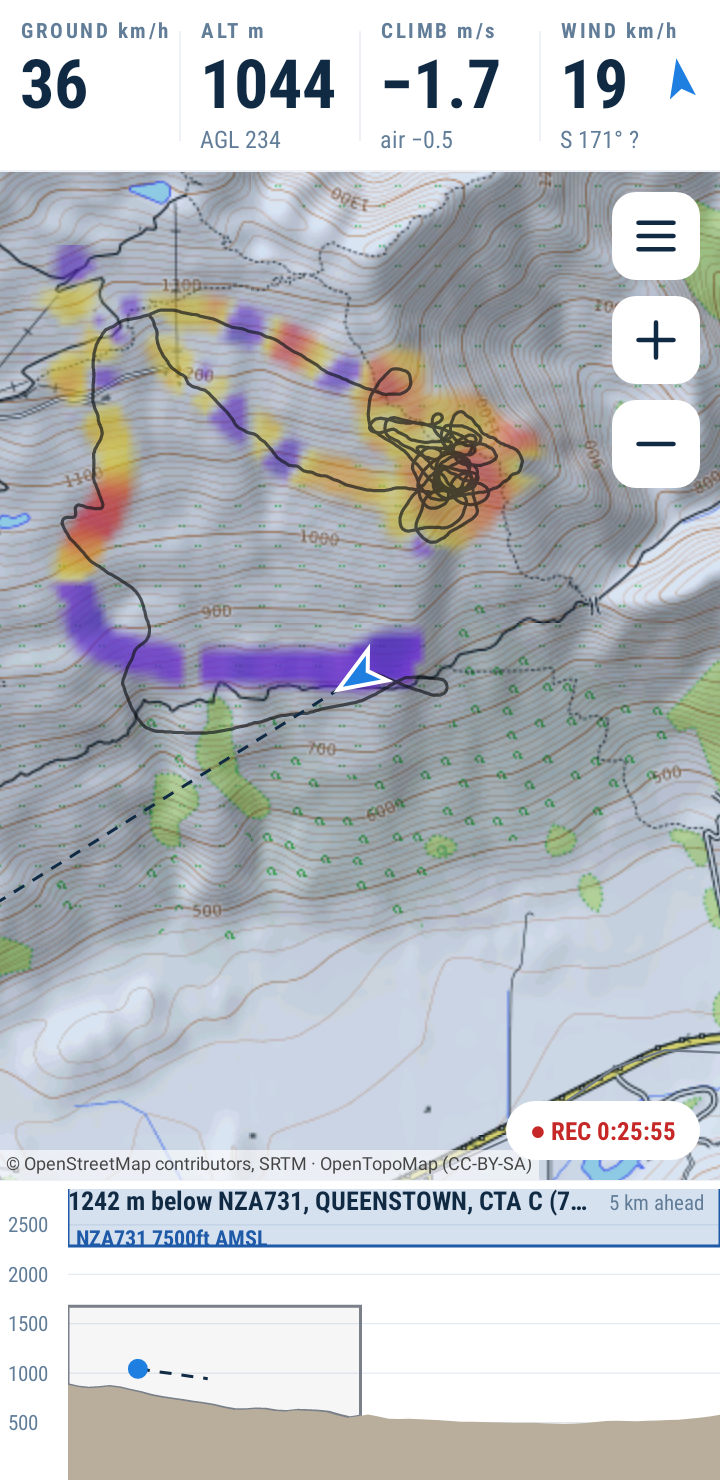
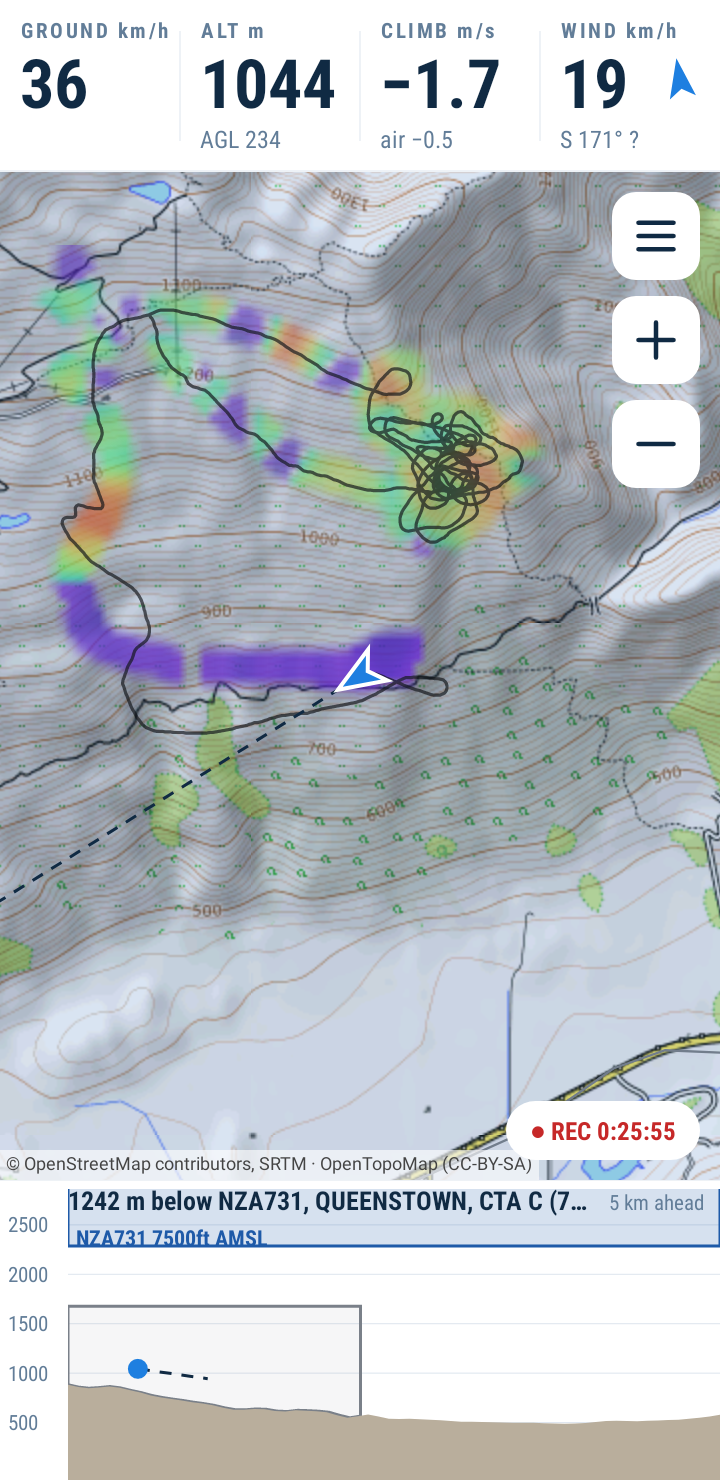
cloudbase: choice of lift colour scale (rainbow, viridis, heat), rainbow by default
Claude-Session: https://claude.ai/code/session_01WPq8MfriARqNX7o4hLC8bK

Changed region(s): [[0.3667, 0.2176, 0.7639, 0.373], [0.0306, 0.1865, 0.3361, 0.4041], [0.3361, 0.2797, 0.3972, 0.3108]]

diff --git a/app/src/test/java/app/cloudbase/ui/HeatGridTest.kt b/app/src/test/java/app/cloudbase/ui/HeatGridTest.kt
@@ -22,31 +22,61 @@ class HeatGridTest {
         return Math.sqrt((dr * dr + dg * dg + db * db).toDouble())
     }
 
-    @Test fun liftIsSpreadOverManyColoursAcrossTheRangeThatMatters() {
-        // Each step up in climb, from weak to very strong, is a clearly different colour...
-        val steps = listOf(0.3f, 0.7f, 1.5f, 2.5f, 4f, 7f)
-        for (i in 0 until steps.size - 1) {
-            val d = distance(col(steps[i]), col(steps[i + 1]))
-            assertTrue("%.1f and %.1f m/s differ by only %.0f".format(steps[i], steps[i + 1], d), d > 55)
+    @org.junit.After fun restorePalette() { HeatGrid.palette = HeatGrid.Palette.TURBO }
+
+    @Test fun everyLiftPaletteSeparatesClimbRatesAndStaysClearOfSink() {
+        for (p in HeatGrid.Palette.values()) {
+            HeatGrid.palette = p
+            // Each step up in climb, from weak to very strong, is a clearly different colour.
+            val steps = listOf(0.3f, 1f, 2f, 3.5f, 7f)
+            for (i in 0 until steps.size - 1) {
+                val d = distance(col(steps[i]), col(steps[i + 1]))
+                // (Viridis is the gentlest: its weak end moves slowly from teal to green.)
+                assertTrue("$p: %.1f and %.1f m/s differ by only %.0f".format(steps[i], steps[i + 1], d), d > 25)
+            }
+            // Up is never mistaken for down, weak or strong.
+            var v = 0.25f
+            while (v <= 8f) {
+                for (w in listOf(0.25f, 1f, 2f, 4f, 8f)) {
+                    val d = distance(col(v), col(-w))
+                    assertTrue("$p: lift $v vs sink $w differ by only %.0f".format(d), d > 110)
+                }
+                v += 0.25f
+            }
         }
-        // ...and so is each half metre through the ordinary thermal range.
+    }
+
+    @Test fun rainbowHasTheMostDistinctColoursAndEndsHot() {
+        HeatGrid.palette = HeatGrid.Palette.TURBO
+        // Every half metre per second through the ordinary thermal range is its own colour.
         var v = 0.5f
-        while (v < 3.5f) {
+        while (v < 4f) {
             val d = distance(col(v), col(v + 0.5f))
-            assertTrue("%.1f and %.1f m/s differ by only %.0f".format(v, v + 0.5f, d), d > 25)
+            assertTrue("%.1f and %.1f m/s differ by only %.0f".format(v, v + 0.5f, d), d > 30)
             v += 0.5f
         }
-        // The named colours land where the comment says they do.
+        val weak = col(0.3f); val mid = col(1.7f); val strong = col(4f); val extreme = col(9f)
+        assertTrue("weak lift is turquoise-green: %06X".format(rgb(weak)), g(weak) > 200 && r(weak) < 110)
+        assertTrue("moderate lift is yellow: %06X".format(rgb(mid)), r(mid) > 180 && g(mid) > 180 && b(mid) < 110)
+        assertTrue("strong lift is red-orange: %06X".format(rgb(strong)), r(strong) > 200 && g(strong) < 130 && b(strong) < 50)
+        assertTrue("extreme lift is dark red: %06X".format(rgb(extreme)), r(extreme) in 130..200 && g(extreme) < 40)
+    }
+
+    @Test fun heatPaletteNamedColours() {
+        HeatGrid.palette = HeatGrid.Palette.HEAT
         val yellow = col(0.7f); val orange = col(1.5f); val red = col(2.5f); val crimson = col(4f); val deep = col(9f)
         assertTrue("0.7 m/s is yellow: %06X".format(rgb(yellow)), r(yellow) > 240 && g(yellow) > 190 && b(yellow) < 90)
         assertTrue("1.5 m/s is orange: %06X".format(rgb(orange)), r(orange) > 240 && g(orange) in 110..190 && b(orange) < 40)
         assertTrue("2.5 m/s is red: %06X".format(rgb(red)), r(red) > 230 && g(red) < 100 && b(red) < 40)
         assertTrue("4 m/s is crimson: %06X".format(rgb(crimson)), r(crimson) in 190..230 && g(crimson) < 30)
         assertTrue("very strong is deep crimson: %06X".format(rgb(deep)), r(deep) in 130..170 && g(deep) < 15)
-        // Stronger lift is deeper, so the best lift stands out most against a pale map.
-        var last = 256.0
-        v = 0.3f
-        while (v <= 8f) { val l = luma(col(v)); assertTrue("brightness at $v", l <= last + 0.5); last = l; v += 0.1f }
+    }
+
+    @Test fun viridisGetsSteadilyBrighter() {
+        HeatGrid.palette = HeatGrid.Palette.VIRIDIS
+        var last = -1.0
+        var v = 0.3f
+        while (v <= 8f) { val l = luma(col(v)); assertTrue("brightness at $v", l >= last - 0.5); last = l; v += 0.1f }
     }
 
     @Test fun sinkRunsFromVioletToNearBlack() {
@@ -59,29 +89,6 @@ class HeatGridTest {
         assertEquals(0.76f, HeatGrid.strength(-HeatGrid.SINK_SCALE), 0.01f)
         assertEquals(0.76f, HeatGrid.strength(HeatGrid.LIFT_SCALE), 0.01f)
         assertTrue(HeatGrid.strength(50f) <= 1f && HeatGrid.strength(-50f) <= 1f)
-    }
-
-    @Test fun upAndDownAreUnmistakablyDifferentAtEveryStrength() {
-        assertTrue(distance(col(0.4f), col(-0.4f)) > 200)
-        var v = 0.25f
-        while (v <= 8f) {
-            val up = col(v); val down = col(-v)
-            // Lift is the yellow/orange/red family (red well above blue); sink the violet/indigo family (blue above red).
-            assertTrue("lift at $v: %06X".format(rgb(up)), r(up) > b(up) + 60)
-            assertTrue("sink at $v: %06X".format(rgb(down)), b(down) > r(down) + 20)
-            assertTrue("lift $v vs sink $v", distance(up, down) > 120)
-            v += 0.25f
-        }
-    }
-
-    @Test fun neverUsesTheMapsGreens() {
-        // The map underneath is greens and grey-blues. (Yellow has green and red both high: not green.)
-        var v = -8f
-        while (v <= 8f) {
-            val c = col(v)
-            if (c != 0) assertTrue("green at $v m/s: %06X".format(rgb(c)), !(g(c) > r(c) + 25 && g(c) > b(c) + 25))
-            v += 0.1f
-        }
     }
 
     @Test fun stillAirIsNotDrawnAndOpacityIsCoverageOnly() {
@@ -119,8 +126,8 @@ class HeatGridTest {
         grid.render()
         // Exactly between equal lift and sink the average is zero: transparent.
         assertEquals(0, grid.pixels[8 * 16 + 7])
-        assertTrue(r(grid.pixels[8 * 16 + 6]) > b(grid.pixels[8 * 16 + 6]))
-        assertTrue(b(grid.pixels[8 * 16 + 8]) > r(grid.pixels[8 * 16 + 8]))
+        assertEquals(rgb(col(2f)), rgb(grid.pixels[8 * 16 + 5]))
+        assertTrue(b(grid.pixels[8 * 16 + 9]) > r(grid.pixels[8 * 16 + 9]) + 20)
     }
 
     @Test fun oldCellsCountForLess() {
@@ -133,7 +140,7 @@ class HeatGridTest {
         // A fresh sample on the same spot outweighs an old one: the result is on the sink side.
         grid.splat(8, 8, -2f, 1f)
         grid.render()
-        assertTrue(b(grid.pixels[8 * 16 + 8]) > r(grid.pixels[8 * 16 + 8]))
+        assertTrue(b(grid.pixels[8 * 16 + 8]) > r(grid.pixels[8 * 16 + 8]) + 20)
     }
 
     @Test fun aDensePatchOfOldSamplesIsAsFadedAsOneOldSample() {

diff --git a/app/src/main/java/app/cloudbase/ui/HeatGrid.kt b/app/src/main/java/app/cloudbase/ui/HeatGrid.kt
@@ -60,6 +60,26 @@ class HeatGrid(val n: Int) {
         }
     }
 
+    /**
+     * Lift is the side a pilot actually reads, and which colours read best is a matter of
+     * eyes, screen and sunlight, so there is a choice. Every ramp starts well away from
+     * violet, so up and down are never confused.
+     */
+    enum class Palette(val label: String, internal val ramp: IntArray) {
+        /**
+         * The upper part of the "turbo" rainbow: turquoise, green, lime, yellow, orange, red,
+         * dark red. The most distinct colours of the three, and the strongest lift is the
+         * hottest and deepest.
+         */
+        TURBO("Rainbow", intArrayOf(0x27D7C4, 0x4DF884, 0x95FB51, 0xDEDD32, 0xFFA423, 0xF65F18, 0xBA2208, 0x900C00)),
+
+        /** The upper part of viridis: teal, green, lime, bright yellow. Steadily brighter as lift strengthens. */
+        VIRIDIS("Viridis", intArrayOf(0x21918C, 0x28AE80, 0x5EC962, 0xADDC30, 0xFDE725)),
+
+        /** Pale yellow, yellow, orange, red, crimson, deep crimson. No greens, so nothing in common with the map. */
+        HEAT("Heat", intArrayOf(0xFFF3A0, 0xFFD600, 0xFF9800, 0xFF3D00, 0xD50032, 0x8E0045)),
+    }
+
     companion object {
         private const val R = 2
         /** Binomial approximation of a Gaussian, sigma about one cell. */
@@ -70,20 +90,13 @@ class HeatGrid(val n: Int) {
         const val ALPHA = 225
 
         /**
-         * Two colour families, so whether the air is going up or down is the first thing you see.
-         * Neither has green or grey-blue in it, which are the colours of the map underneath.
-         * Each ramp is listed weakest to strongest.
-         *
-         * Sink: violet through indigo to near-black.
-         *
-         * Lift, the side a pilot actually reads, gets more colours and more of them spent across
-         * the range that matters: pale yellow and yellow (air rising, but not yet faster than the
-         * glider sinks), orange (about where you start to climb), red, crimson, deep crimson.
-         * Stronger is hotter, deeper and more intense: that is the shade the eye wants to turn
-         * towards, and it is also the most visible thing on a pale map.
+         * Sink is always the violet family: violet through indigo to near-black. Listed weakest
+         * to strongest, as are the lift ramps.
          */
         private val SINK = intArrayOf(0x9A35E8, 0x6A1FD0, 0x3F14A8, 0x1E0B6B, 0x0B0433)
-        private val LIFT = intArrayOf(0xFFF3A0, 0xFFD600, 0xFF9800, 0xFF3D00, 0xD50032, 0x8E0045)
+
+        /** The lift ramp in use. Set from Settings; main thread only, like all drawing. */
+        var palette = Palette.TURBO
 
         /** Sigmoid scales, m/s: 76 % of a ramp is used by this much. Sink saturates early; lift is spread wide. */
         const val SINK_SCALE = 2.0f
@@ -93,15 +106,14 @@ class HeatGrid(val n: Int) {
          * How far along its ramp a climb or sink value sits, 0..1. A sigmoid (tanh): the colour
          * range is spent on ordinary values where telling them apart matters, and extreme values
          * flatten out towards the end instead of all looking the same shade past a hard limit.
-         * With [LIFT_SCALE] the lift colours fall at roughly: yellow 0.7 m/s, orange 1.5, red 2.5,
-         * crimson 4, deep crimson beyond 6.
+         * With [LIFT_SCALE], half of a lift ramp is used by about 1.9 m/s and three quarters by 3.5.
          */
         fun strength(climb: Float): Float = tanh(abs(climb) / if (climb > 0) LIFT_SCALE else SINK_SCALE)
 
         /** ARGB for a climb value. [coverage] 0..1 fades the edges of the mapped area and old samples. */
         fun color(climb: Float, coverage: Float): Int {
             if (abs(climb) <= DEAD_BAND || coverage <= 0f) return 0
-            val ramp = if (climb > 0) LIFT else SINK
+            val ramp = if (climb > 0) palette.ramp else SINK
             val pos = strength(climb) * (ramp.size - 1)
             val k = min(pos.toInt(), ramp.size - 2)
             val f = pos - k

diff --git a/app/src/main/java/app/cloudbase/ui/Overlays.kt b/app/src/main/java/app/cloudbase/ui/Overlays.kt
@@ -114,8 +114,7 @@ class AirspaceOverlay(context: Context) : MapView.Overlay {
 
 /**
  * The lift/sink heat map: a smooth cloud over the air that has been flown through, violet to
- * near-black where it was sinking, and pale yellow through orange and red to crimson where it
- * was rising.
+ * near-black where it was sinking, and the pilot's choice of colour scale where it was rising.
  *
  * Every thermal-map cell sits on one regular lattice (they all drift together), so the cells map
  * straight onto the pixels of a small bitmap, which [HeatGrid] smooths and the canvas scales up.
@@ -149,6 +148,7 @@ class ThermalOverlay(context: Context) : MapView.Overlay, ThermalMap.Visitor {
         proj = LocalProjection(midLat, midLon)
         cell = live.cellM
         hasPhase = false
+        HeatGrid.palette = HeatGrid.Palette.values().firstOrNull { it.name == Hub.settings.liftColours } ?: HeatGrid.Palette.TURBO
         grid.clear()
         val half = SIZE / 2 * cell
         val s = proj.lat(-half); val w = proj.lon(-half); val n = proj.lat(half); val e = proj.lon(half)

diff --git a/app/src/test/java/app/cloudbase/screenshots/ScreenshotTest.kt b/app/src/test/java/app/cloudbase/screenshots/ScreenshotTest.kt
@@ -14,6 +14,7 @@ import app.cloudbase.core.Atmosphere
 import app.cloudbase.core.igc.IgcTrack
 import app.cloudbase.core.pressureAt
 import app.cloudbase.ui.GlyphButton
+import app.cloudbase.ui.HeatGrid
 import org.junit.Test
 import org.junit.runner.RunWith
 import org.robolectric.Robolectric
@@ -110,6 +111,13 @@ class ScreenshotTest {
         Hub.applySettings()
         act.airspaceChanged()
         flyToWithTerrain(1060); snap(act, "1-thermalling")
+        // The same moment in each lift colour scale, for choosing between them.
+        for (p in HeatGrid.Palette.values()) {
+            Hub.settings.liftColours = p.name
+            act.airspaceChanged() // forces a repaint
+            snap(act, "palette-${p.name.lowercase()}")
+        }
+        Hub.settings.liftColours = "TURBO"
         flyToWithTerrain(1575); snap(act, "3-glide-to-ground")
         flyTo(Int.MAX_VALUE) // land, so the logbook has a finished flight in it
 

diff --git a/app/src/main/java/app/cloudbase/ui/Pages.kt b/app/src/main/java/app/cloudbase/ui/Pages.kt
@@ -137,6 +137,11 @@ class SettingsPage(act: MainActivity) : Page(act, "Settings") {
             choose("Speed in", listOf("km/h", "knots", "mph"), speeds.indexOf(s.speedUnit).coerceAtLeast(0)) { s.speedUnit = speeds[it] }
         }
         toggle("Thermal heat map", s.showThermals) { s.showThermals = it }
+        val palettes = HeatGrid.Palette.values()
+        val current = palettes.indexOfFirst { it.name == s.liftColours }.coerceAtLeast(0)
+        row("Lift colours", palettes[current].label) {
+            choose("Colours for rising air", palettes.map { it.label }, current) { s.liftColours = palettes[it].name }
+        }
         toggle("Zoom in when thermalling", s.thermalZoom) { s.thermalZoom = it }
         toggle("Glide-to-ground line", s.showGlide) { s.showGlide = it }
         toggle("Side view", s.showSideView) { s.showSideView = it; act.applyLayout() }

diff --git a/app/src/main/java/app/cloudbase/Settings.kt b/app/src/main/java/app/cloudbase/Settings.kt
@@ -27,6 +27,8 @@ class Settings(context: Context) {
     var keepScreenOn: Boolean by Bool("keep_screen_on", true)
     var showSideView: Boolean by Bool("side_view", true)
     var showThermals: Boolean by Bool("thermals", true)
+    /** Colour scale for rising air on the thermal map: "TURBO", "VIRIDIS" or "HEAT". */
+    var liftColours: String by Str("lift_colours", "TURBO")
     /** Line on the map to where the present glide meets the ground. */
     var showGlide: Boolean by Bool("glide_line", true)
     /** Zoom the map in close while circling in a thermal. */

diff --git a/README.md b/README.md
@@ -40,11 +40,11 @@ is carrying you on the map.
 **Map.** North-up topographic map. Airspace you must stay out of is outlined blue (controlled)
 or red (restricted, danger, military); informational airspace is thin grey. Press and hold on an
 airspace for its limits, or to ignore it. **Tap the map once to zoom in, twice to zoom out**
-(made for gloves; the + and − buttons and pinch work too). The coloured cloud is the **thermal map**. Rising air runs through
-six colours, hotter and deeper as it gets stronger: pale yellow, yellow (about 0.7 m/s), orange
-(1.5, roughly where you start to climb), red (2.5), crimson (4) and deep crimson. Sinking air
-is the violet family, from violet (weak) through indigo to near-black (strong). Neither has
-green or grey-blue in it, so it does not blend into the map. It drifts downwind with the air; the red ring marks the best lift nearby. That drift only lasts
+(made for gloves; the + and − buttons and pinch work too). The coloured cloud is the **thermal map**. Sinking air is the
+violet family, from violet (weak) through indigo to near-black (strong). Rising air uses the
+scale chosen in **Settings → Lift colours**: *Rainbow* (turquoise, green, yellow, orange, red,
+dark red as it strengthens; the default), *Viridis* (teal, green, bright yellow) or *Heat*
+(pale yellow, orange, red, crimson; no greens). It drifts downwind with the air; the red ring marks the best lift nearby. That drift only lasts
 five minutes, long enough to centre the climb you are in. After that a patch is shown, faded,
 at the ground location where you met it, and stays there for the rest of the flight: thermals
 come off terrain, so the place is what is worth remembering. The map **zooms in close when you start circling** and back out when you leave.
